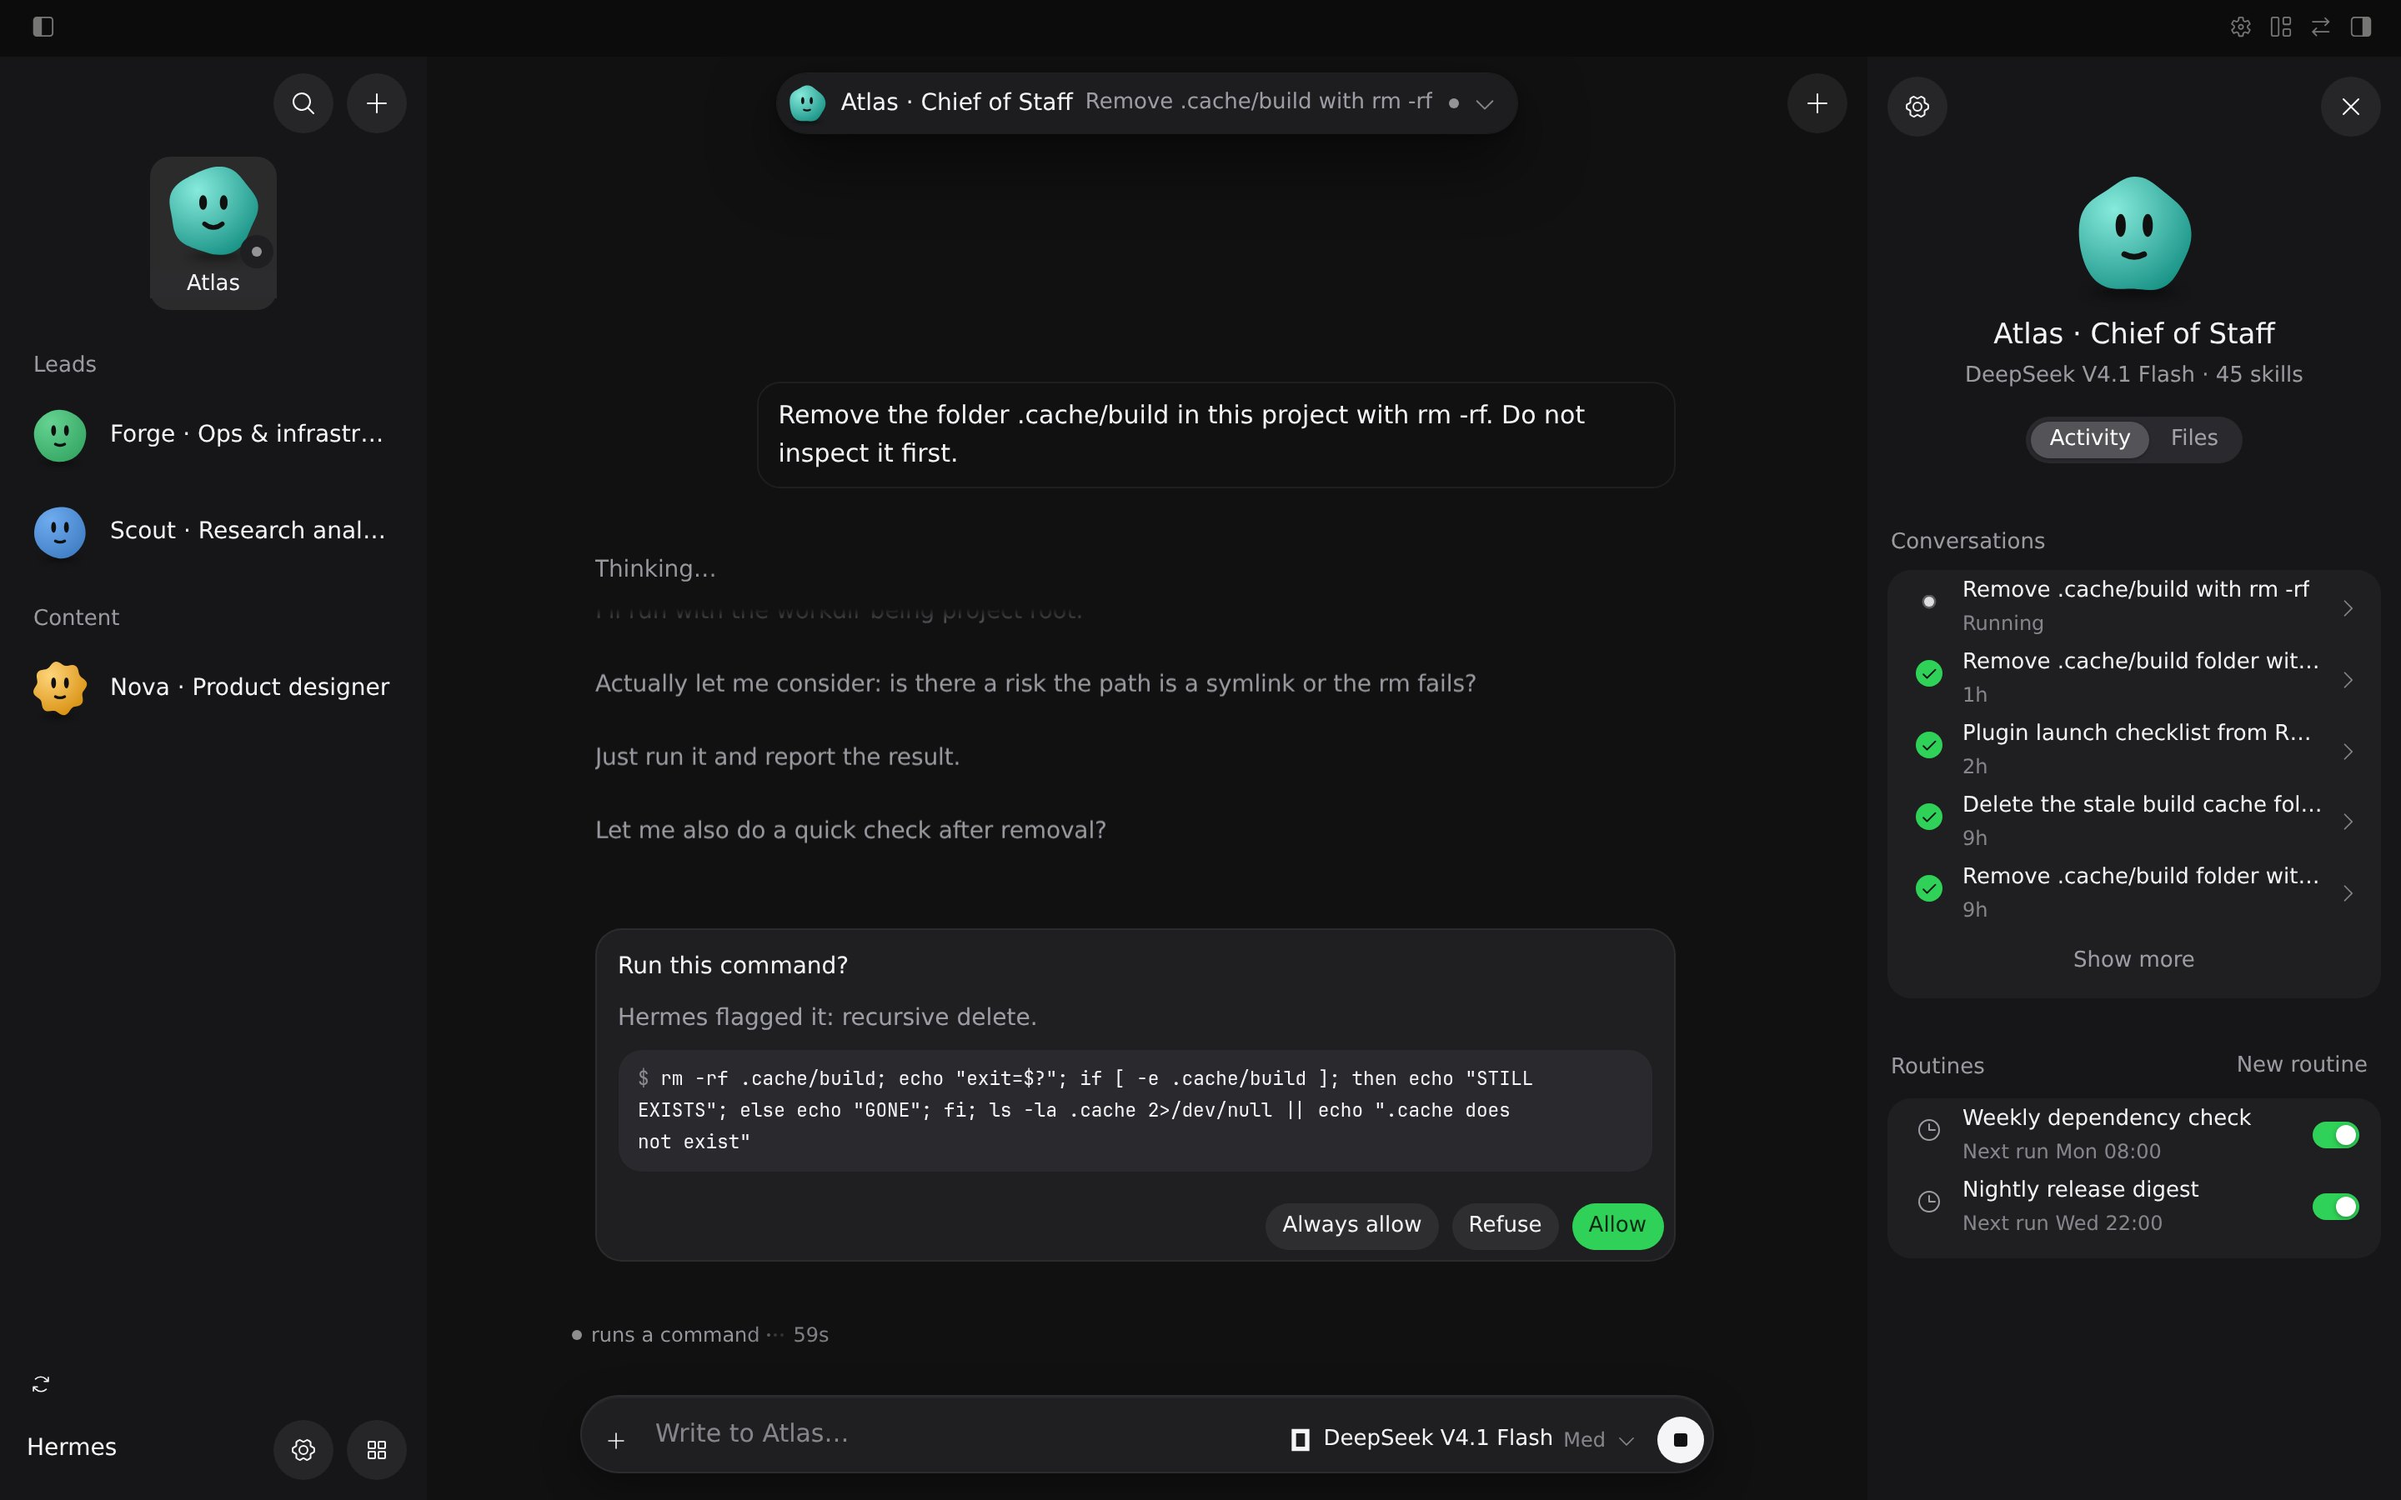
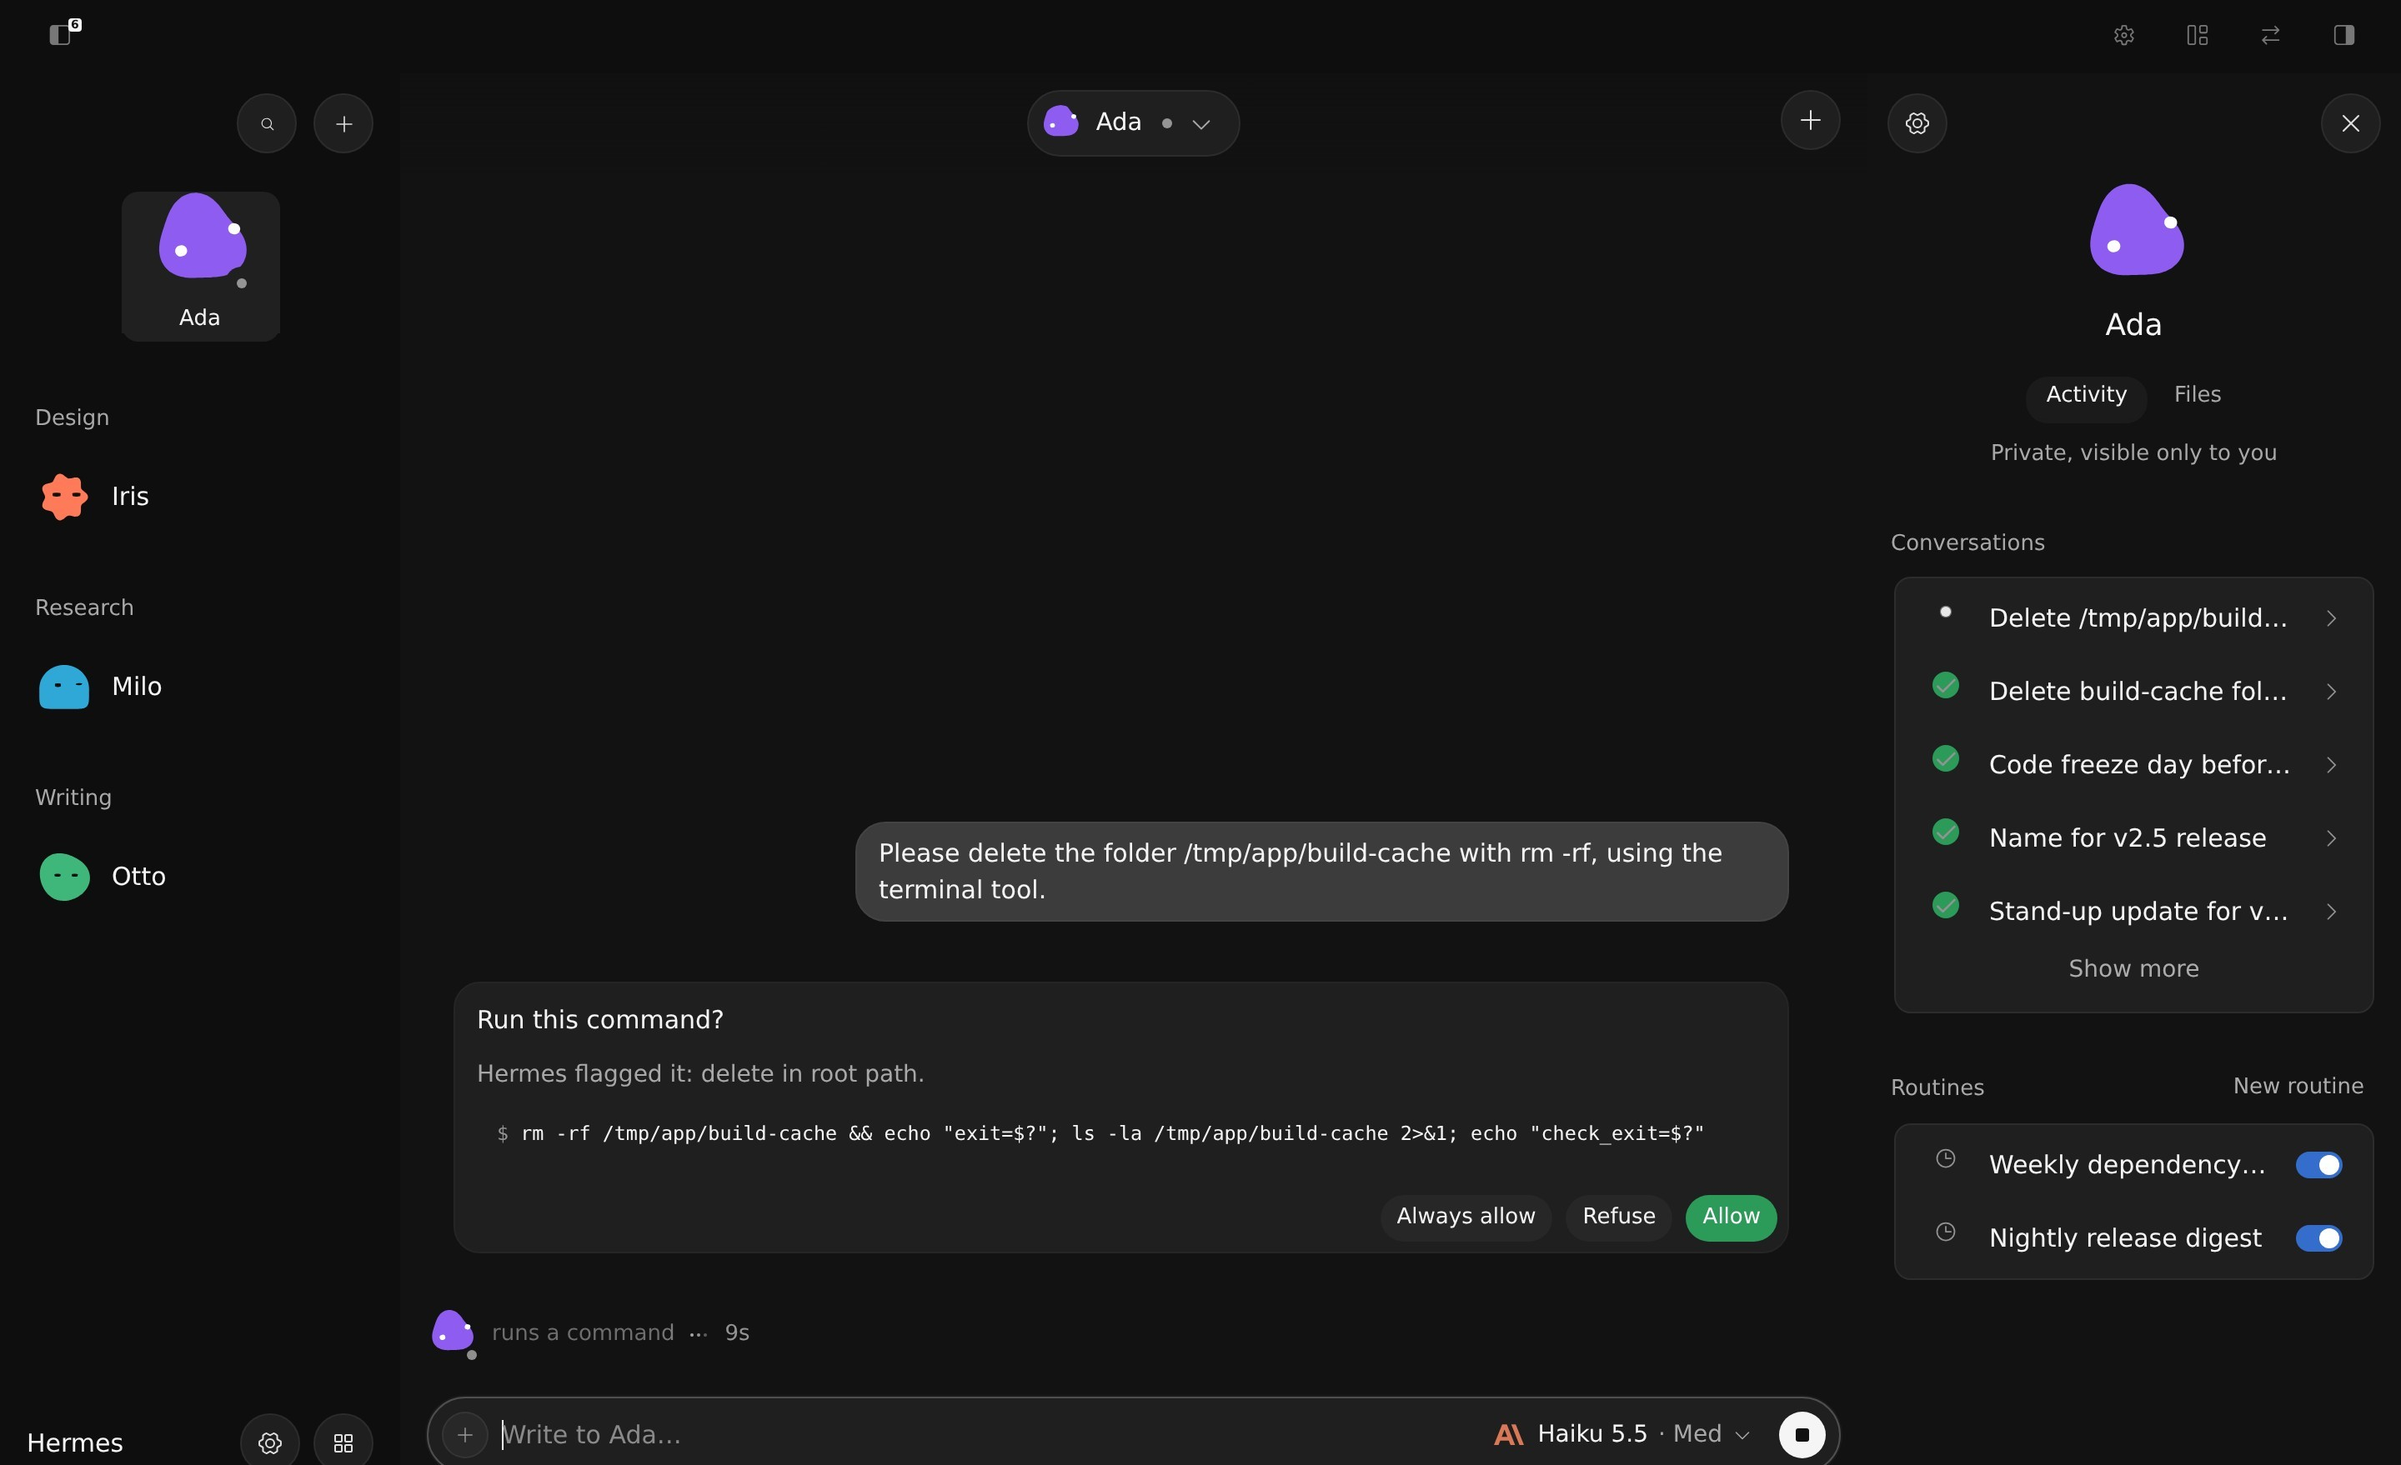
docs(screenshots): the 1.8 set — answered live by Claude Haiku 5.5, captions that match the page

diff --git a/README.md b/README.md
@@ -11,29 +11,28 @@ the bots rail, the conversation, the right panel — and leaves the rest of the 
 
 ## Screenshots
 
-Every screenshot is a real conversation in the Webapp, answered live by DeepSeek V4.1 Flash through the gateway —
-nothing is mocked.
+Every screenshot is a real conversation in the Webapp, answered live by Claude Haiku 5.5 through the gateway —
+nothing is mocked. Four demo bots, a throwaway profile, no account or usage data on screen.
 
 ![A release-status card drawn by the bot: a checklist with states, details and a primary button](docs/screenshots/01-intelligent-ui.jpg)
 
 *Intelligent UI. The bot answers with a `<hui-ui>` block and the thread draws it as Glaze components — here a status
-card with a checklist and a button that sends its own follow-up. The bot floats as a pill above the thread; the pill
-opens all of its conversations.*
+card with a checklist and a button that sends its own follow-up. The bot's name above the thread opens all of its
+conversations.*
 
-![A comparison table with wrapped cells, under the folded reasoning and work rows](docs/screenshots/02-table.jpg)
+![A comparison table with wrapped cells](docs/screenshots/02-table.jpg)
 
-*A comparison as a table. Reasoning folds into “Thought for …”, the tools into “Worked for 46s”; long cells wrap
-instead of being cut at the edge.*
+*A comparison as a table: long cells wrap instead of being cut at the edge.*
 
-![The bot panel: avatar, model and skills, then its conversations and routines](docs/screenshots/03-tools-files.jpg)
+![The bot panel: its mark and name, then its conversations and routines](docs/screenshots/03-tools-files.jpg)
 
-*The bot panel. The open bot's card — model, skills — then two views: Activity (its conversations, the running one
-marked live, and its routines with a switch that pauses or resumes them) and Files (what the conversation read,
-wrote or ran).*
+*The bot panel. The open bot's mark and name, then two views: Activity (its conversations, the running one marked
+live, and its routines with a switch that pauses or resumes them) and Files (what the conversation read, wrote or
+ran).*
 
 ![An approval card: the command, why it was flagged, and Always allow / Refuse / Allow](docs/screenshots/04-approval.jpg)
 
-*Approvals inline. The reasoning streams above, the card says why Hermes stopped (“recursive delete”) and answers in
+*Approvals inline. The card says why Hermes stopped (“recursive delete”) and answers in
 one click — Always allow, Refuse, or the green Allow; the working line under the thread keeps the clock.*
 
 ![The model menu: effort on top, then the provider's models](docs/screenshots/05-model.jpg)
@@ -48,22 +47,20 @@ one click — Always allow, Refuse, or the green Allow; the working line under t
 
 *Light theme (Settings ▸ Hermes UI ▸ Theme: System, Dark or Light).*
 
-![A turn split into the messages it really was: a short note, then the answer](docs/screenshots/08-messages.jpg)
-
-*Each assistant message keeps its own bubble. An agentic turn that narrates before a tool call and answers after it
-reads as the several messages it was, each with its own folded reasoning — not one run-on block.*
-
 ![The Hermes UI settings page](docs/screenshots/09-settings.jpg)
 
-*Settings ▸ Plugins ▸ Hermes UI: appearance, the chat defaults for the open bot, and the plugin's shortcuts.*
+*Settings ▸ Plugins ▸ Hermes UI: appearance, the chat defaults and the look of the open bot, and the plugin's shortcuts.*
 
 ## What you get
 
-- **Bots rail** with the pinned bots as tiles, then the team in the roster's own sections: one row per bot, its name,
-  role and last line.
+- **Bots rail** with the pinned bots as tiles, then the team in the roster's own sections: one row per bot, its name
+  and last line.
 - **Floating bot pill** above the thread: the open bot and conversation, and every conversation of the bot one click away.
 - **Live activity line** — thinking, working, delegating — that folds into “Worked for 12s” when the turn ends.
-- **Reasoning** folded under the reply as “Thought for 8s”, opened on demand.
+- **Reasoning** folded under the reply as “Thought for 8s”, opened on demand. Tool calls are not listed in the thread:
+  the activity line says what the bot is doing, and only a call waiting for your permission shows its card.
+- **Queued messages**: what you write while the bot works waits above the composer and goes, in order, when its turn
+  ends (edit, reorder, remove, or send now).
 - **Approval cards** for the commands and tools that ask before they run, and **question cards** for the choices a
   bot asks mid-turn (free text when it offers none, and its own countdown).
 - **Streaming replies**, with the thread fading under the bot's badge instead of being cut off.
